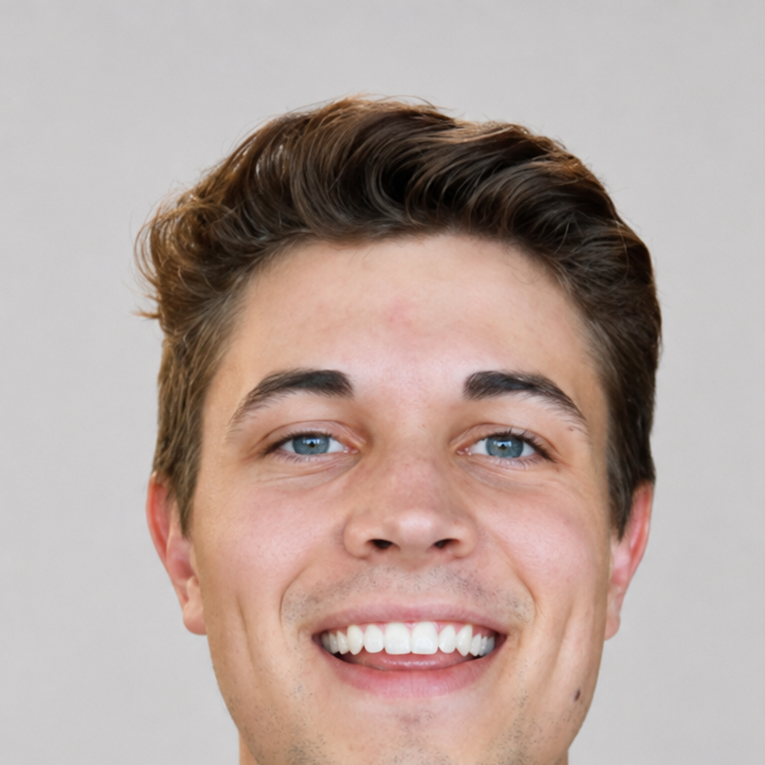
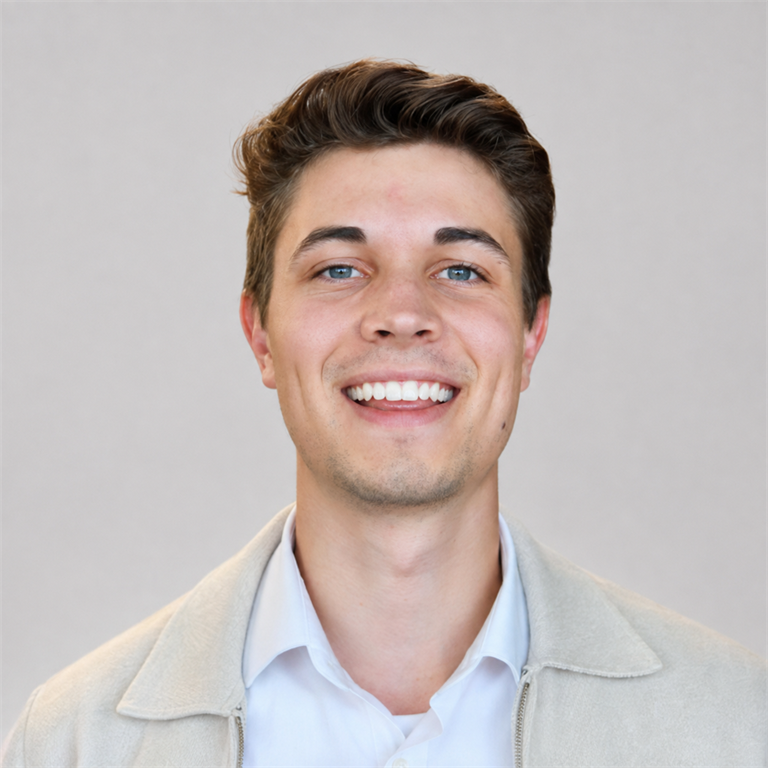
Adjust Jason headshot framing

diff --git a/src/styles.css b/src/styles.css
@@ -769,7 +769,7 @@ button {
 .leaderPhoto {
   display: block;
   object-fit: cover;
-  object-position: center top;
+  object-position: center center;
   border: 1px solid var(--color-line);
 }
 
